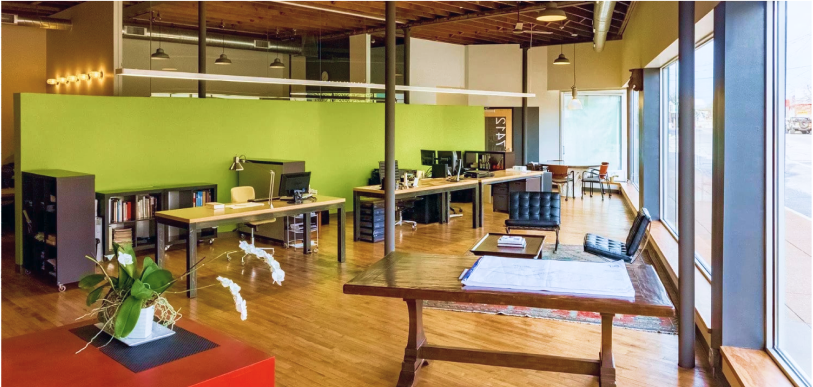
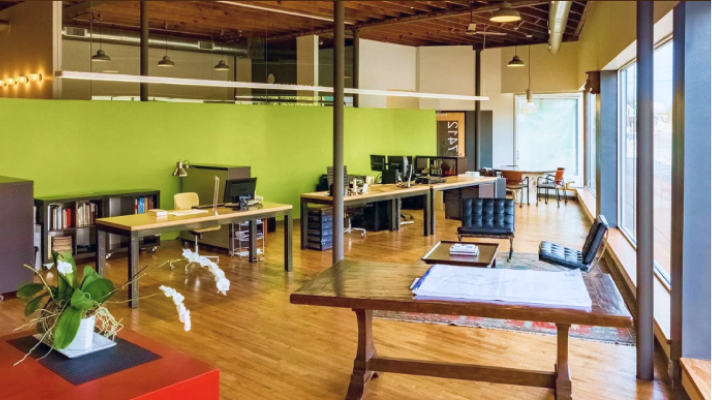
added images to service section

diff --git a/client/src/pages/Home.js b/client/src/pages/Home.js
@@ -17,7 +17,10 @@ import ServiceMdia from "../comps/Section/Media";
 import SecRevMdia from "../comps/SectionRev/Media";
 import ProjectMida from "../comps/SectionCarousel/ProjectMedia";
 
+import RendrImg from "../media/images/RenderImg.png";
 import ServicesImg from "../media/images/Placeholder.png";
+import ServBey from "../media/images/servBey.jpg";
+import ServRendrImg from "../media/images/serviceRend.jpg";
 import AboutImg from "../media/images/Office.png";
 import ProfileImg from "../media/images/Profile.png";
 import MapImg from "../media/images/Map.png";
@@ -27,34 +30,43 @@ const db = firebase.firestore();
 class Home extends Component {
   constructor(props) {
     super(props);
-    this.state = {};
+    this.state = {
+      servMedia: ServicesImg,
+    };
   }
 
   componentWillMount() {
     db.collection("projects")
       .doc("--STATS--")
       .get()
-      .then(doc => {
+      .then((doc) => {
         this.setState({
           slides: doc.data().landing,
-          featured: doc.data().featured
+          featured: doc.data().featured,
         });
       });
   }
-
   componentDidMount() {
     window.scrollTo(0, 0);
     let projects = {};
     db.collection("projects")
       .get()
-      .then(doc => {
-        doc.forEach(project => {
+      .then((doc) => {
+        doc.forEach((project) => {
           if (project.id === "--STATS--") return;
           projects[project.id] = project.data();
         });
         this.setState({ projects });
       });
+    this.setServMed(0);
   }
+
+  setServMed = (index) => {
+    let servMediaArry = [RendrImg, ServicesImg, ServRendrImg, ServBey];
+
+    this.setState({ servMedia: servMediaArry[index] });
+  };
+
   render() {
     return (
       <div>
@@ -62,8 +74,8 @@ class Home extends Component {
         <div className="sec-wrap">
           <Section
             lable="Services"
-            text={<ServiceTxt />}
-            media={<ServiceMdia image={ServicesImg} />}
+            text={<ServiceTxt setMedia={this.setServMed} />}
+            media={<ServiceMdia image={this.state.servMedia} />}
           ></Section>
           <SectionCarousel
             lable="Projects"

diff --git a/client/src/comps/Section/ServText/index.js b/client/src/comps/Section/ServText/index.js
@@ -9,7 +9,7 @@ class Section extends Component {
   constructor(props) {
     super(props);
     this.state = {
-      actItm: 0
+      actItm: 0,
     };
   }
 
@@ -19,28 +19,31 @@ class Section extends Component {
       {
         title: "Architectural Services",
         content:
-          "Wolfe A&D provides full architectural services from feasibility studies, concept generation through move in."
+          "Wolfe A&D provides full architectural services from feasibility studies, concept generation through move in.",
       },
       {
         title: "Programming & Pre-Design",
         content:
-          "Wolfe A&D helps clients set the parameters for the design process; defining budgets, schedules, special programing and goals"
+          "Wolfe A&D helps clients set the parameters for the design process; defining budgets, schedules, special programing and goals",
       },
       {
         title: "Progect Rendering",
         content:
-          "Wolfe A&D provides rendering services to both clients and other architects looking to spruce up presentations and other project media."
+          "Wolfe A&D provides rendering services to both clients and other architects looking to spruce up presentations and other project media.",
       },
       {
         title: "Beyond Design Services",
         content:
-          "In addition to the traditional Architectural Services, Wolfe A&D can assist clients with project promotions and fundraising."
-      }
+          "In addition to the traditional Architectural Services, Wolfe A&D can assist clients with project promotions and fundraising.",
+      },
     ];
 
     let contentComps = content.map((item, i) => (
       <div
-        onClick={() => this.setState({ actItm: i })}
+        onClick={() => {
+          this.props.setMedia(i);
+          this.setState({ actItm: i });
+        }}
         className="serv-txt-cont"
         key={Math.random()}
       >

diff --git a/client/src/comps/Section/Media/indexStyle.css b/client/src/comps/Section/Media/indexStyle.css
@@ -1,3 +1,9 @@
 .med-wrap {
   position: relative;
 }
+
+.med-wrap img {
+  max-height: 400px;
+  /* max-width: 600px; */
+  object-fit: cover;
+}
